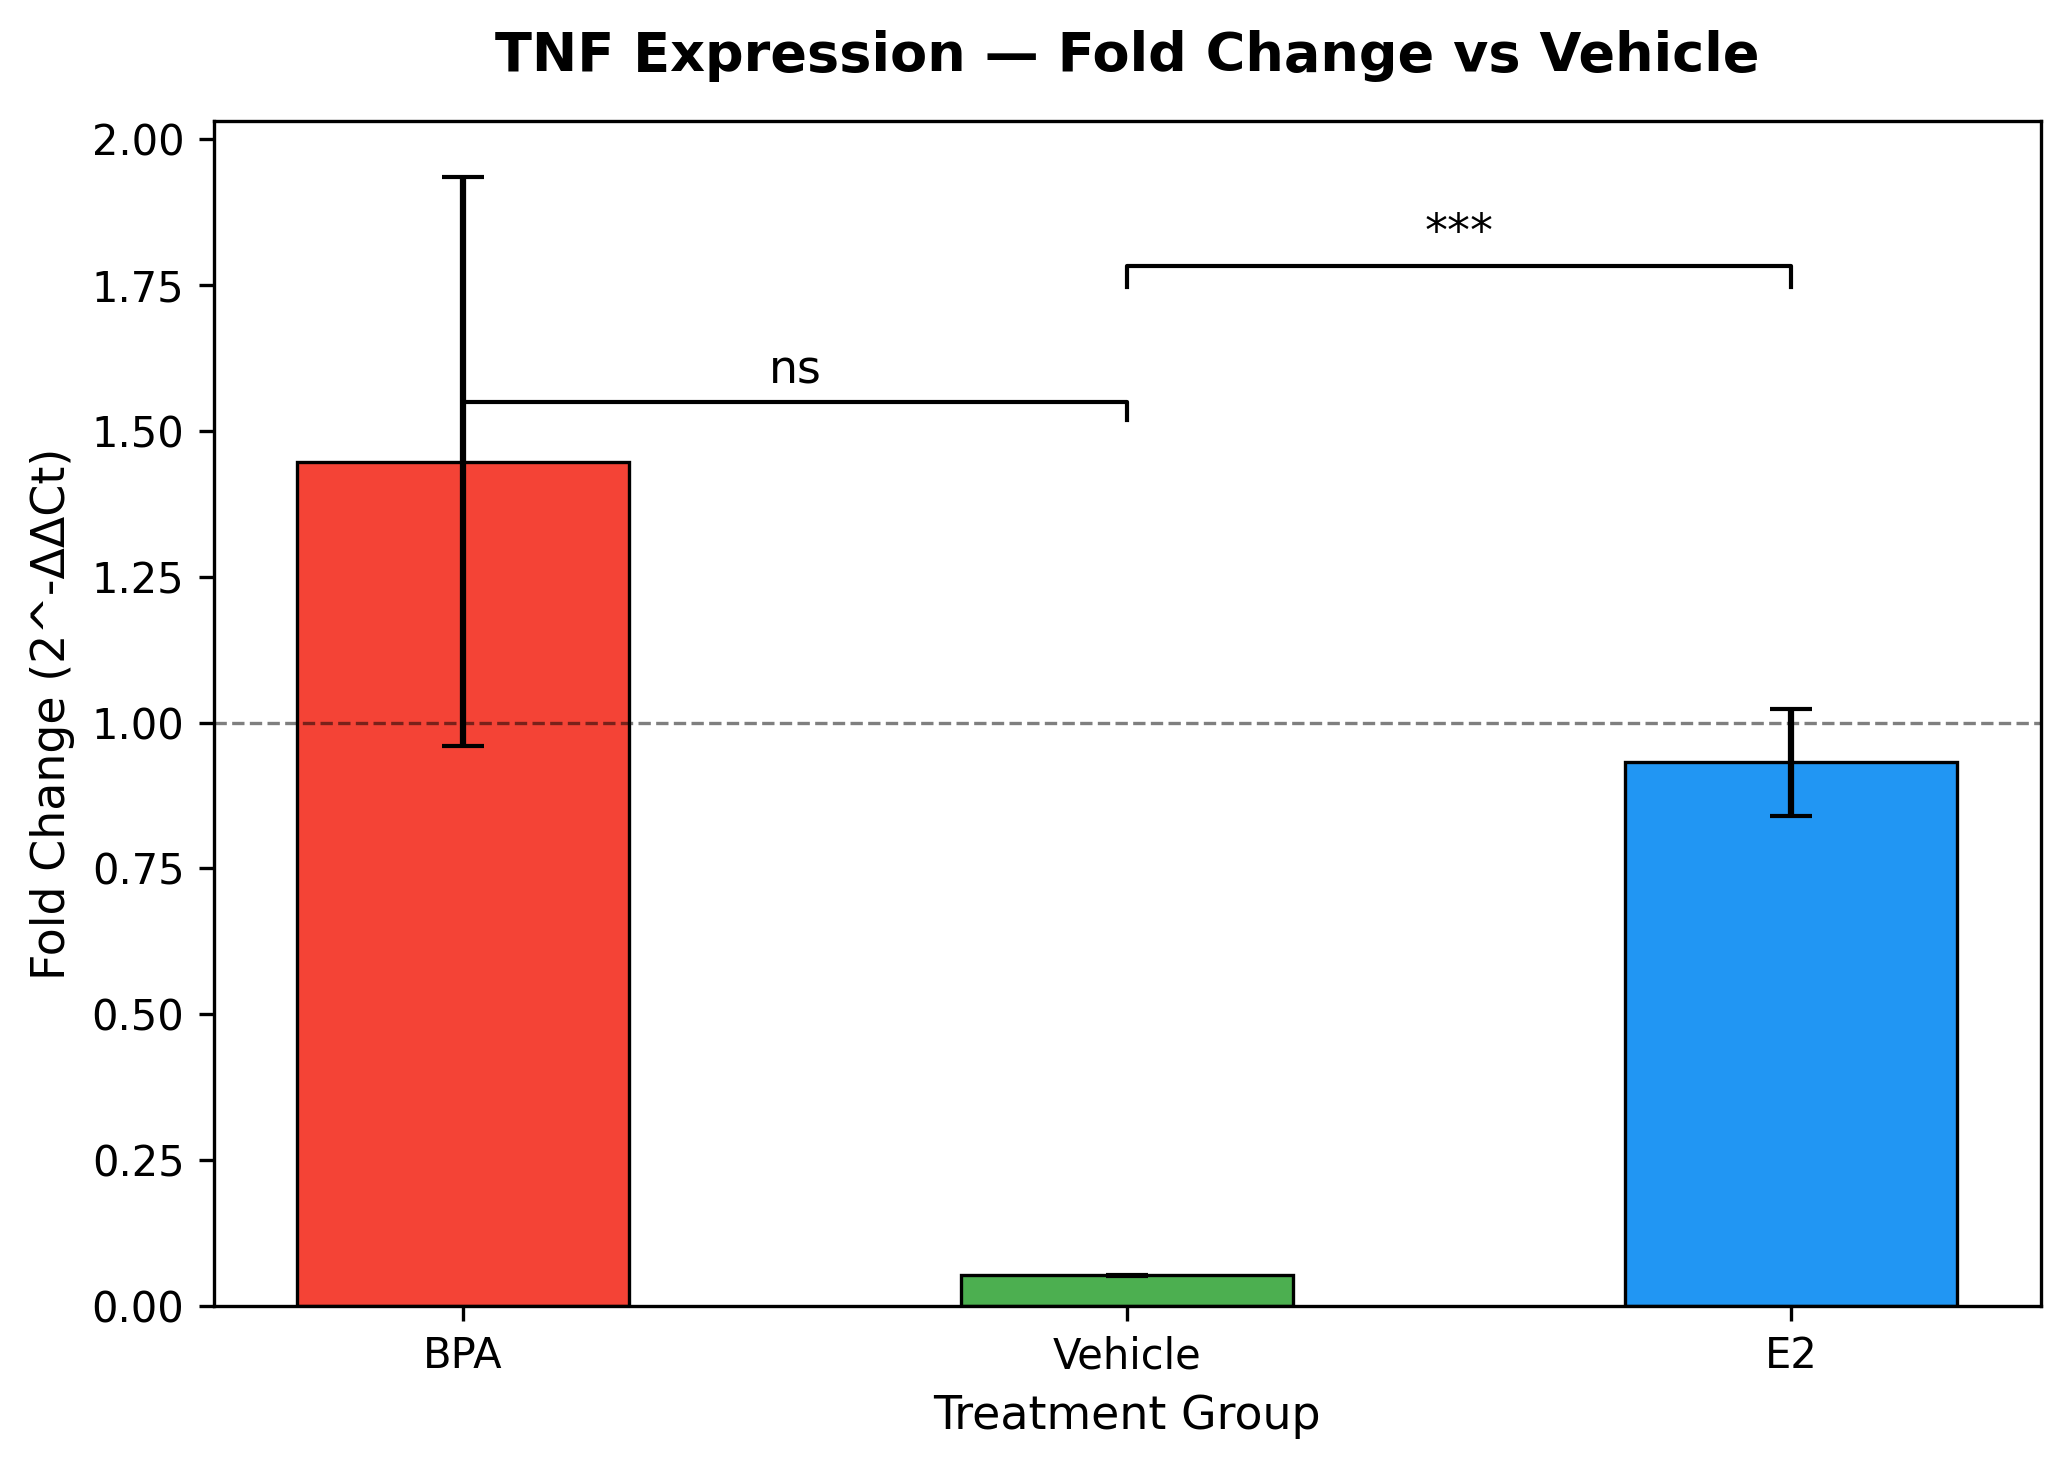
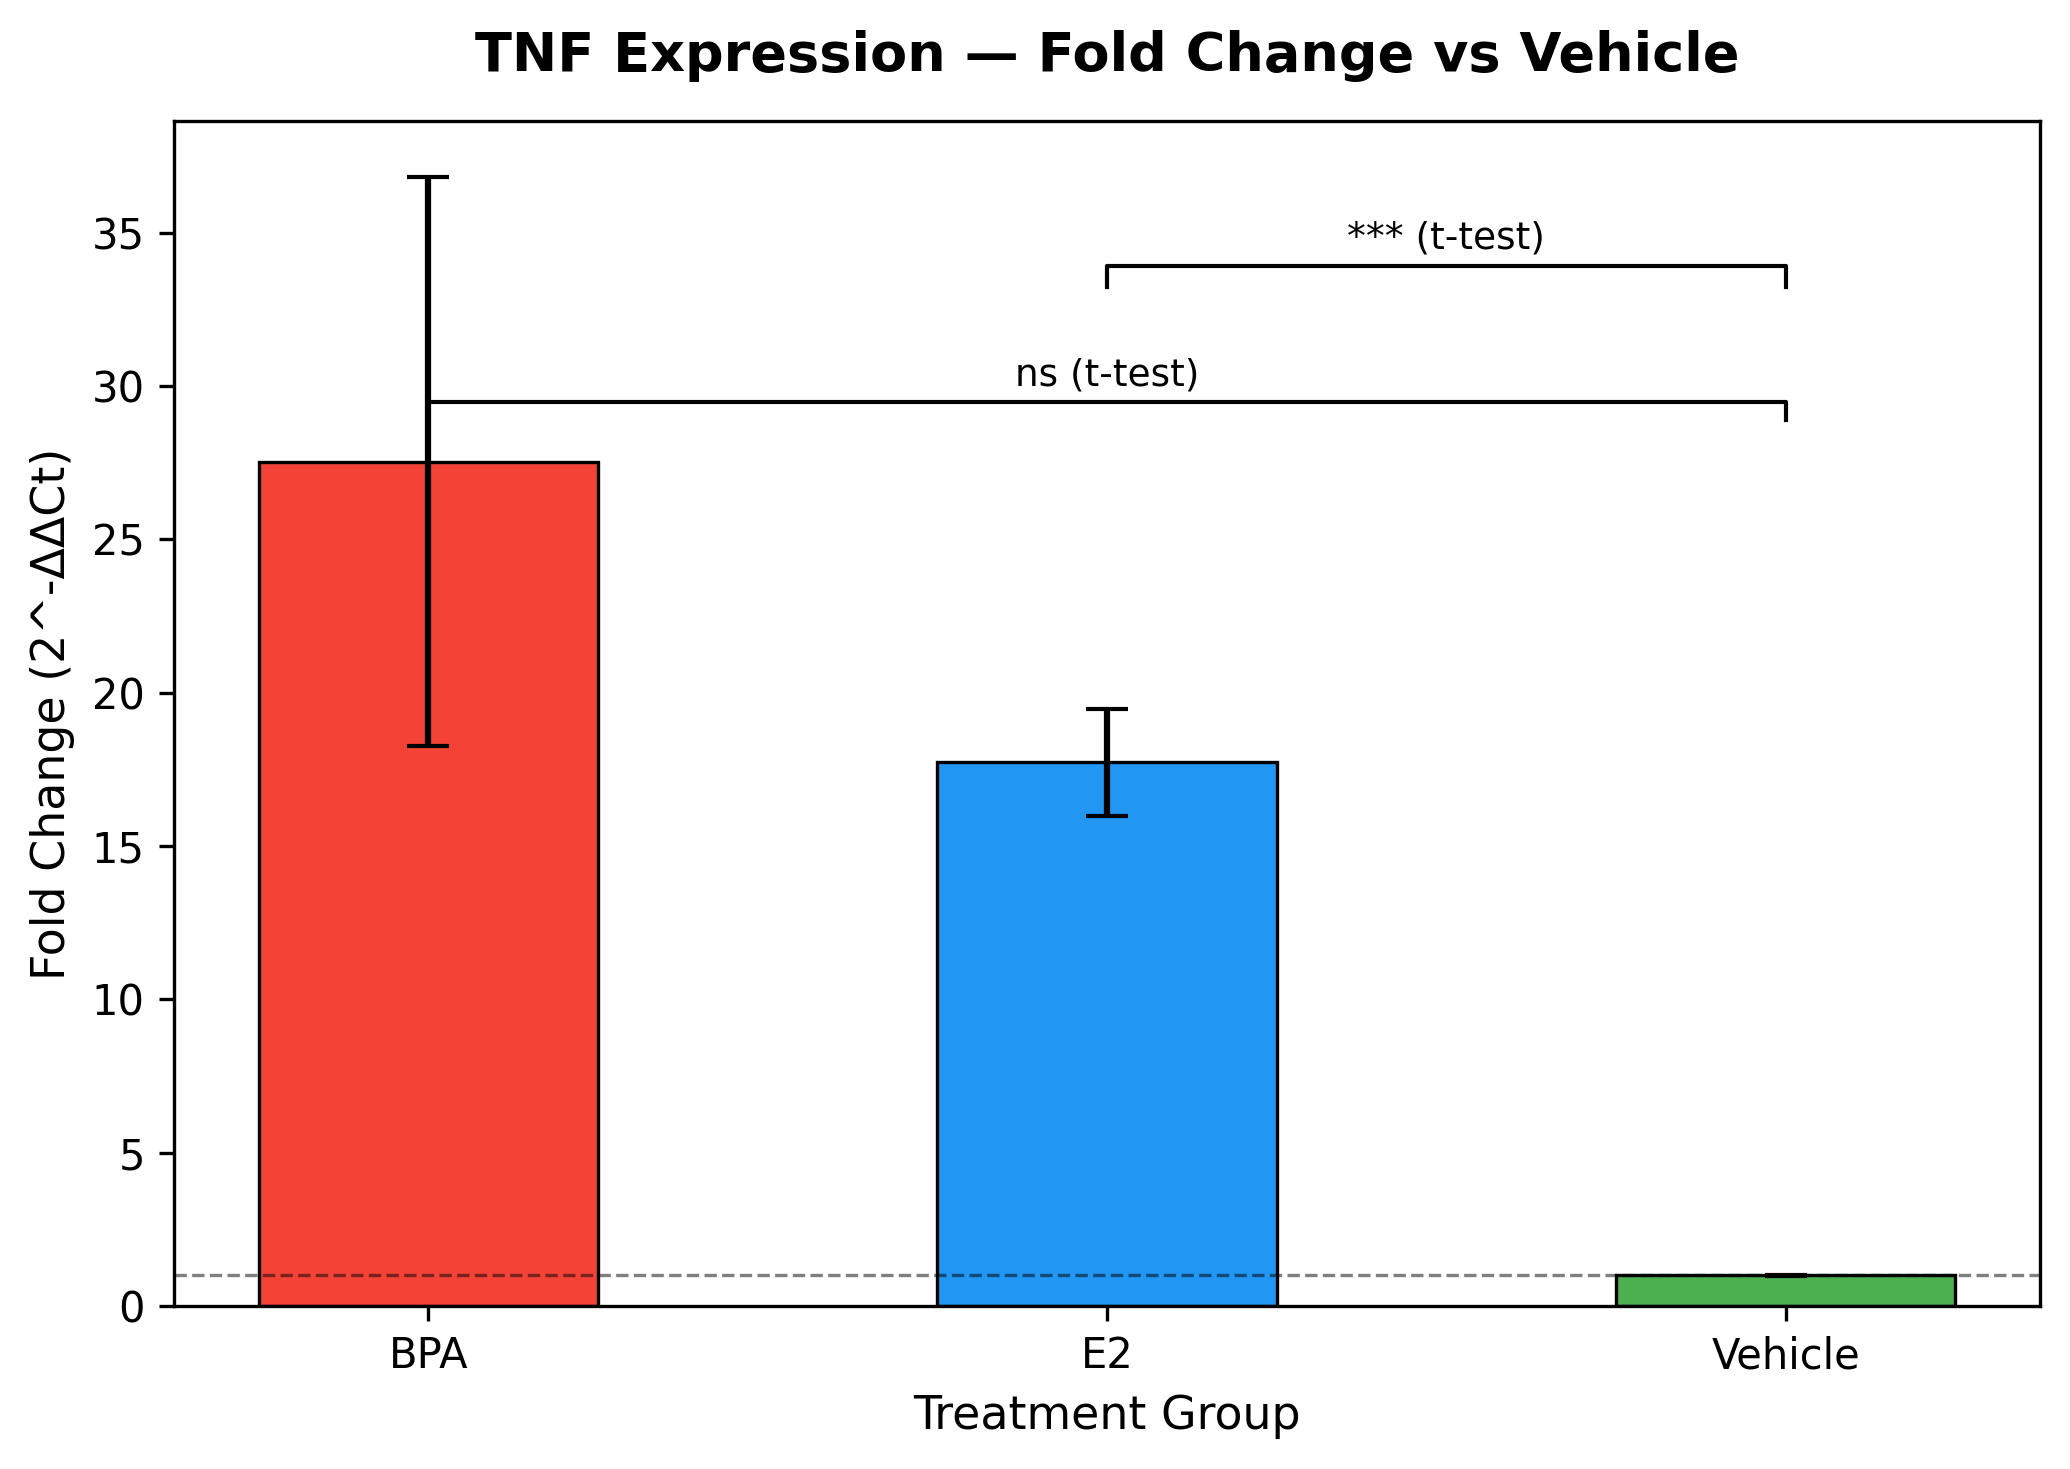
fix significance markers to use LMM p-values, add CSV export

diff --git a/modules/plots.py b/modules/plots.py
@@ -1,34 +1,28 @@
 import pandas as pd
 import numpy as np
 import matplotlib.pyplot as plt
-import matplotlib.patches as mpatches
 from scipy import stats
 import os
 
-
-def plot_fold_changes(df, gene_col, treatment_col, output_dir='outputs'):
+def plot_fold_changes(df, gene_col, treatment_col, output_dir='outputs', lmm_pvalues=None):
     """
     Generate a publication-ready bar plot of fold changes
     with error bars and significance markers.
+    lmm_pvalues: optional dict of {treatment_group: p_value} from LMM
     """
     fold_change_col = f'fold_change_{gene_col}'
-
+    
     # Calculate mean and SEM per treatment group
-    summary = df.groupby(treatment_col)[fold_change_col].agg(
-        ['mean', 'sem']).reset_index()
+    summary = df.groupby(treatment_col)[fold_change_col].agg(['mean', 'sem']).reset_index()
     summary.columns = [treatment_col, 'mean', 'sem']
-
+    
     # Color palette
-    colors = {
-        'Vehicle': '#4CAF50',
-        'BPA':     '#F44336',
-        'E2':      '#2196F3',
-    }
+    colors = {'Vehicle': '#4CAF50', 'BPA': '#F44336', 'E2': '#2196F3'}
     bar_colors = [colors.get(t, '#9E9E9E') for t in summary[treatment_col]]
-
+    
     # Plot
     fig, ax = plt.subplots(figsize=(7, 5))
-    bars = ax.bar(
+    ax.bar(
         summary[treatment_col],
         summary['mean'],
         yerr=summary['sem'],
@@ -39,10 +33,10 @@ def plot_fold_changes(df, gene_col, treatment_col, output_dir='outputs'):
         width=0.5,
         error_kw={'elinewidth': 1.5, 'ecolor': 'black'}
     )
-
+    
     # Reference line at fold change = 1
     ax.axhline(y=1, color='black', linestyle='--', linewidth=0.8, alpha=0.5)
-
+    
     # Labels
     gene_display = gene_col.replace('_ct', '').upper()
     ax.set_title(f'{gene_display} Expression — Fold Change vs Vehicle',
@@ -50,12 +44,12 @@ def plot_fold_changes(df, gene_col, treatment_col, output_dir='outputs'):
     ax.set_xlabel('Treatment Group', fontsize=11)
     ax.set_ylabel('Fold Change (2^-ΔΔCt)', fontsize=11)
     ax.set_ylim(bottom=0)
-
-    # Add significance markers between groups
-    add_significance_markers(ax, df, treatment_col, fold_change_col, summary)
-
+    
+    # Significance markers
+    add_significance_markers(ax, df, treatment_col, fold_change_col, summary, lmm_pvalues)
+    
     plt.tight_layout()
-
+    
     # Save
     os.makedirs(output_dir, exist_ok=True)
     filename = f'{output_dir}/{gene_display}_fold_change.png'
@@ -64,58 +58,57 @@ def plot_fold_changes(df, gene_col, treatment_col, output_dir='outputs'):
     print(f"Saved: {filename}")
     return filename
 
-
-def add_significance_markers(ax, df, treatment_col, fold_change_col, summary):
+def add_significance_markers(ax, df, treatment_col, fold_change_col, summary, lmm_pvalues=None):
     """
-    Add significance markers (* p<0.05, ** p<0.01, *** p<0.001) between groups.
+    Add significance markers (* p<0.05, ** p<0.01, *** p<0.001).
+    Uses LMM p-values if provided, otherwise falls back to t-test.
     """
     groups = summary[treatment_col].tolist()
     means = summary['mean'].tolist()
-    max_y = max(means) * 1.15
-
-    # Compare each group against Vehicle
     control = df[df[treatment_col] == 'Vehicle'][fold_change_col]
-
+    
     y_offset = max(means) * 1.05
+
     for i, group in enumerate(groups):
         if group == 'Vehicle':
             continue
-        sample = df[df[treatment_col] == group][fold_change_col]
-        _, p = stats.ttest_ind(control, sample)
 
-        # Significance marker
-        if p < 0.001:
-            marker = '***'
-        elif p < 0.01:
-            marker = '**'
-        elif p < 0.05:
-            marker = '*'
+        # Use LMM p-value if available, otherwise t-test
+        if lmm_pvalues and group in lmm_pvalues:
+            p = lmm_pvalues[group]
+            label_suffix = " (LMM)"
         else:
-            marker = 'ns'
+            _, p = stats.ttest_ind(control, df[df[treatment_col] == group][fold_change_col])
+            label_suffix = " (t-test)"
 
-        # Draw bracket
+        if p < 0.001:
+            marker = f'***{label_suffix}'
+        elif p < 0.01:
+            marker = f'**{label_suffix}'
+        elif p < 0.05:
+            marker = f'*{label_suffix}'
+        else:
+            marker = f'ns{label_suffix}'
+
         x1 = groups.index('Vehicle')
         x2 = i
         ax.plot([x1, x1, x2, x2],
                 [y_offset, y_offset * 1.02, y_offset * 1.02, y_offset],
                 color='black', linewidth=1)
         ax.text((x1 + x2) / 2, y_offset * 1.03, marker,
-                ha='center', va='bottom', fontsize=11)
+                ha='center', va='bottom', fontsize=9)
         y_offset *= 1.15
-
 
 def plot_litter_variance(pct_litter, pct_residual, gene_col, output_dir='outputs'):
     """
-    Generate a pie chart showing how much variance
-    is explained by litter vs residual.
+    Pie chart showing variance explained by litter vs residual.
     """
     gene_display = gene_col.replace('_ct', '').upper()
-
+    
     fig, ax = plt.subplots(figsize=(5, 5))
     ax.pie(
         [pct_litter, pct_residual],
-        labels=[f'Litter effect\n({pct_litter}%)',
-                f'Residual\n({pct_residual}%)'],
+        labels=[f'Litter effect\n({pct_litter}%)', f'Residual\n({pct_residual}%)'],
         colors=['#F44336', '#4CAF50'],
         autopct='%1.1f%%',
         startangle=90,
@@ -123,7 +116,7 @@ def plot_litter_variance(pct_litter, pct_residual, gene_col, output_dir='outputs
     )
     ax.set_title(f'{gene_display} — Variance Explained by Litter',
                  fontsize=12, fontweight='bold', pad=12)
-
+    
     plt.tight_layout()
     os.makedirs(output_dir, exist_ok=True)
     filename = f'{output_dir}/{gene_display}_litter_variance.png'

diff --git a/app.py b/app.py
@@ -3,7 +3,6 @@ import pandas as pd
 from modules.qpcr import run_pipeline
 from modules.lmm import run_lmm, summarize_lmm
 from modules.plots import plot_fold_changes, plot_litter_variance
-from PIL import Image
 
 # ── PAGE CONFIG ──
 st.set_page_config(
@@ -71,14 +70,20 @@ else:
     all_cols = df.columns.tolist()
 
     with col1:
-        treatment_col = st.selectbox("Treatment column", all_cols,
-                                     index=all_cols.index('treatment') if 'treatment' in all_cols else 0)
+        treatment_col = st.selectbox(
+            "Treatment column",
+            all_cols,
+            index=all_cols.index('treatment') if 'treatment' in all_cols else 0
+        )
         control_group = st.selectbox(
             "Control group", df[treatment_col].unique().tolist())
 
     with col2:
-        housekeeping_col = st.selectbox("Housekeeping gene column", all_cols,
-                                        index=all_cols.index('gapdh_ct') if 'gapdh_ct' in all_cols else 0)
+        housekeeping_col = st.selectbox(
+            "Housekeeping gene column",
+            all_cols,
+            index=all_cols.index('gapdh_ct') if 'gapdh_ct' in all_cols else 0
+        )
         gene_options = [c for c in all_cols if c.endswith(
             '_ct') and c != housekeeping_col]
         gene_cols = st.multiselect(
@@ -86,8 +91,10 @@ else:
 
     with col3:
         if "In vivo" in experiment_type:
-            litter_col = st.selectbox("Grouping variable column",
-                                      [c for c in all_cols if 'litter' in c or 'group' in c or 'id' in c.lower()])
+            litter_col_options = [
+                c for c in all_cols if 'litter' in c or 'group' in c or 'id' in c.lower()]
+            litter_col = st.selectbox(
+                "Grouping variable column", litter_col_options)
 
     st.divider()
 
@@ -108,22 +115,43 @@ else:
                     gene_display = gene.replace('_ct', '').upper()
                     st.markdown(f"### {gene_display}")
 
-                    tab1, tab2 = st.tabs(["Fold Change Plot", "LMM Results (in vivo)"]
-                                         if "In vivo" in experiment_type
-                                         else ["Fold Change Plot", "Summary Table"])
+                    # Run LMM first if in vivo so we have p-values for the plot
+                    lmm_pvalues = None
+                    lmm_result = None
+                    pct_litter = None
+                    pct_residual = None
+                    summary = None
+
+                    if "In vivo" in experiment_type:
+                        lmm_result = run_lmm(
+                            results, gene, treatment_col, litter_col, control_group)
+                        summary, pct_litter, pct_residual = summarize_lmm(
+                            lmm_result, gene)
+
+                        # Extract LMM p-values for each treatment group
+                        lmm_pvalues = {}
+                        for idx in summary.index:
+                            for group in df[treatment_col].unique():
+                                if group != control_group and group in str(idx):
+                                    lmm_pvalues[group] = summary.loc[idx,
+                                                                     'p-value']
+
+                    # Generate fold change plot with correct p-values
+                    plot_path = plot_fold_changes(
+                        results, gene, treatment_col, lmm_pvalues=lmm_pvalues
+                    )
+
+                    tab_labels = ["Fold Change Plot", "LMM Results (in vivo)"] \
+                        if "In vivo" in experiment_type \
+                        else ["Fold Change Plot", "Summary Table"]
+
+                    tab1, tab2 = st.tabs(tab_labels)
 
                     with tab1:
-                        plot_path = plot_fold_changes(
-                            results, gene, treatment_col)
                         st.image(plot_path, use_container_width=False)
 
                     with tab2:
                         if "In vivo" in experiment_type:
-                            lmm_result = run_lmm(
-                                results, gene, treatment_col, litter_col, control_group)
-                            summary, pct_litter, pct_residual = summarize_lmm(
-                                lmm_result, gene)
-
                             col_a, col_b = st.columns(2)
                             with col_a:
                                 st.markdown("**Fixed Effects (Treatment)**")
@@ -136,10 +164,21 @@ else:
                         else:
                             fold_col = f'fold_change_{gene}'
                             summary_table = results.groupby(treatment_col)[fold_col].agg(
-                                ['mean', 'sem', 'count']).reset_index()
+                                ['mean', 'sem', 'count']
+                            ).reset_index()
                             summary_table.columns = [
                                 'Treatment', 'Mean Fold Change', 'SEM', 'N']
                             summary_table = summary_table.round(4)
+
+                            # CSV download
+                            csv = summary_table.to_csv(
+                                index=False).encode('utf-8')
+                            st.download_button(
+                                label="⬇️ Download results as CSV",
+                                data=csv,
+                                file_name=f'{gene_display}_results.csv',
+                                mime='text/csv'
+                            )
                             st.dataframe(
                                 summary_table, use_container_width=True)
 